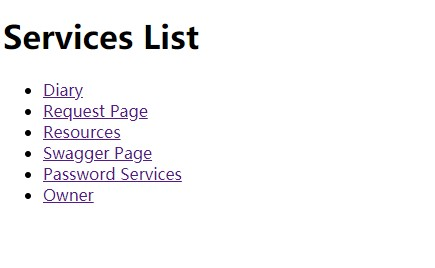
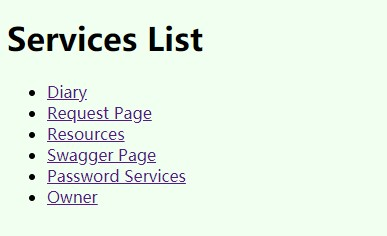
update readme.md

Changed region(s): [[0.031, 0.2966, 0.4961, 0.8898], [0.0, 0.089, 0.5271, 0.2373], [0.062, 0.8305, 0.093, 0.8602]]

diff --git a/src/main/java/cn/hxh/controller/Home.java b/src/main/java/cn/hxh/controller/Home.java
@@ -15,7 +15,7 @@ public class Home {
 
     private String html() {
         String top = "<!DOCTYPE html><html><head><title>home</title><link rel=\"icon\" type=\"image/x-icon\" href=\"/anyone/favicon.ico\"><meta charset=\"UTF-8\"><meta name=\"content-type\" content=\"text/html\"></head>";
-        String h1 = "<h1>Services List</h1><body><ul>";
+        String h1 = "<h1>Services List</h1><body bgcolor=\"#F0FFF0\"><ul>";
         String end = "</ul></body><html>";
         return top + h1 + body() + end;
     }

diff --git a/README.md b/README.md
@@ -16,10 +16,6 @@ Use swagger:
 
 <img src="readmepics/passwords.jpg" width="717" height="294" alt="image"/>
 
-Or raw request page(relative path: /main):
-
-<img src="readmepics/main.jpg" width="400" height="387" alt="image"/>
-
 #### Diary Page
 ![image](readmepics/diary.jpg)
 
@@ -27,6 +23,8 @@ Or raw request page(relative path: /main):
     /resources
 
 ### Notes
-    No middleware and no database.
-    Created only based on spring boot and jdk8.
-    Visit [shaneu.cn](http://shaneu.cn)
+No middleware and no database.
+
+Created only based on spring boot and jdk8.
+
+Visit [shaneu.cn](http://shaneu.cn).
